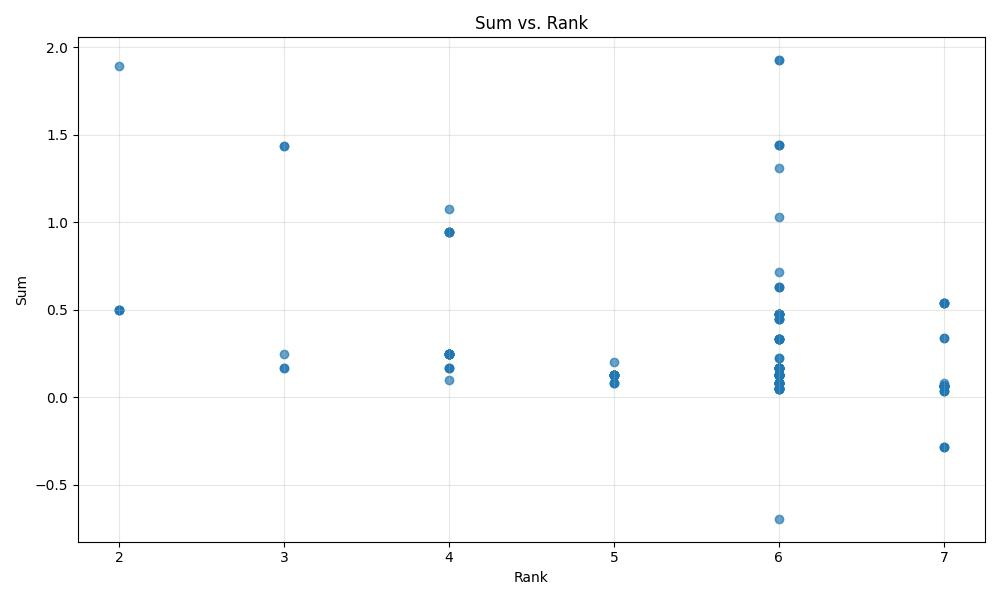
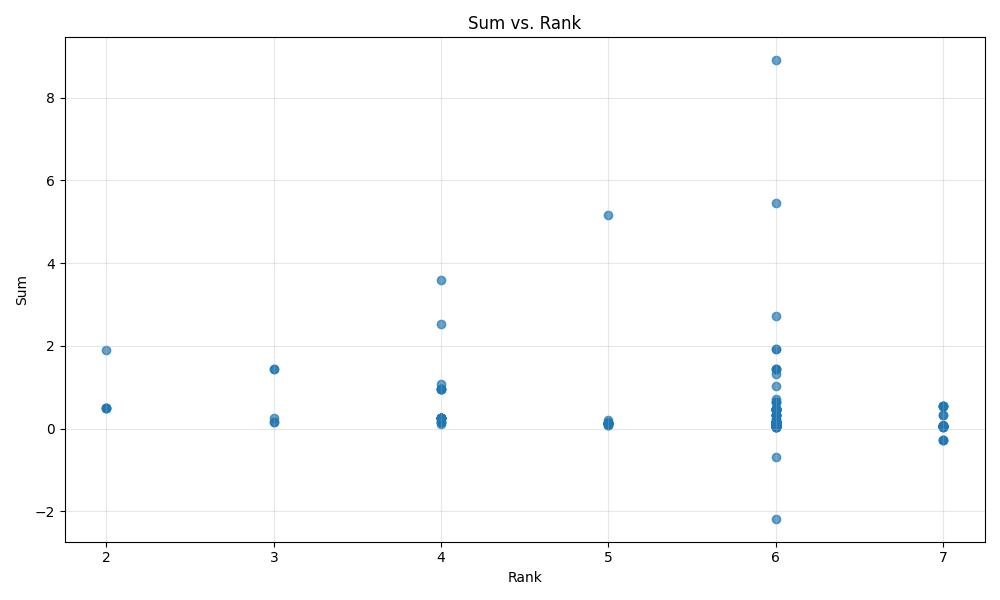
adding some functionality

diff --git a/find_categories.py b/find_categories.py
@@ -1,0 +1,32 @@
+import json
+from TVBW import SphericalFusionCategory
+
+if __name__ == "__main__":
+    import sys
+
+    json_path = "Rank1-7.json"
+
+    #cat = SphericalFusionCategory(sys.argv[1], sys.argv[2])
+
+    cats = ["0" for _ in range(7)]
+    cats[0] = '37fa4c58-97c6-11f1-a6a6-639d9c4bace6'
+    with open(json_path) as fh:
+        data = json.load(fh)
+    order = data["order"]
+    for c in order:
+        #cat = SphericalFusionCategory(c, json_path)
+        cat = data["data"][c]
+        r = len(cat["quantum_dimensions"])
+        if False not in [d in [[-1.0, 0.0], [1.0, 0.0]] for d in cat["numeric_quantum_dimensions"]] and cats[r - 1] == "0":
+            print("found all ones", r)
+            cats[r-1] = c
+            if "0" not in cats:
+                break
+    print(cats)
+    '''
+    for cate in cats:
+        cat = SphericalFusionCategory(cate, sys.argv[2])
+        Z = turaev_viro(tri, cat)
+        print(f'{sys.argv[1]} \t Rank:{cat.rank} \t Sum:{Z}')
+    #print("Z (numeric)=", sp.N(Z))
+    '''

diff --git a/TVBW.py b/TVBW.py
@@ -280,22 +280,3 @@ def turaev_viro(tri, cat, verbose=False):
     return Z
 
 
-if __name__ == "__main__":
-    import sys
-    #cat = SphericalFusionCategory(sys.argv[1], sys.argv[2])
-    ## tri = regina.Triangulation3.fromSig(sys.argv[3]) if len(sys.argv) > 3 \
-        
-    tri = regina.Example3.lens(5, 1)
-    #tri = regina.Example3.poincare()
-    cats = ['37fa4c58-97c6-11f1-a6a6-639d9c4bace6',
-            '37fa4e2e-97c6-11f1-aa03-3b817be52f72', 
-            '37fa4ea8-97c6-11f1-8b25-ad9b74351a3e', 
-            '37fa4f78-97c6-11f1-90cf-c3d624fdb861', 
-            '37fa5126-97c6-11f1-8476-3f003633fef2', 
-            '37fa5642-97c6-11f1-9458-d142162199ed', 
-            '37fa5c3e-97c6-11f1-8693-91f67133af96']
-    for cate in cats:
-        cat = SphericalFusionCategory(cate, sys.argv[2])
-        Z = turaev_viro(tri, cat)
-        print(f'{sys.argv[1]} \t Rank:{cat.rank} \t Sum:{Z}')
-    #print("Z (numeric)=", sp.N(Z))

diff --git a/main.py b/main.py
@@ -1,0 +1,20 @@
+
+if __name__ == "__main__":
+    import sys
+    #cat = SphericalFusionCategory(sys.argv[1], sys.argv[2])
+    ## tri = regina.Triangulation3.fromSig(sys.argv[3]) if len(sys.argv) > 3 \
+
+    tri = regina.Example3.lens(5, 1)
+    #tri = regina.Example3.poincare()
+    cats = ['37fa4c58-97c6-11f1-a6a6-639d9c4bace6',
+            '37fa4e2e-97c6-11f1-aa03-3b817be52f72',
+            '37fa4ea8-97c6-11f1-8b25-ad9b74351a3e',
+            '37fa4f78-97c6-11f1-90cf-c3d624fdb861',
+            '37fa5126-97c6-11f1-8476-3f003633fef2',
+            '37fa5642-97c6-11f1-9458-d142162199ed',
+            '37fa5c3e-97c6-11f1-8693-91f67133af96']
+    for cate in cats:
+        cat = SphericalFusionCategory(cate, sys.argv[2])
+        Z = turaev_viro(tri, cat)
+        print(f'{sys.argv[1]} \t Rank:{cat.rank} \t Sum:{Z}')
+    #print("Z (numeric)=", sp.N(Z))

diff --git a/plot.py b/plot.py
@@ -33,7 +33,7 @@ with open(filename, "r", encoding="utf-8") as file:
             # Parse and numerically evaluate the SymPy expression
             value = sp.sympify(expression)
             value = float(sp.N(value, 15))
-            if value > 2 or value < -2:
+            if value > 10 or value < -10:
                 print(entry_code)
                 continue
 
